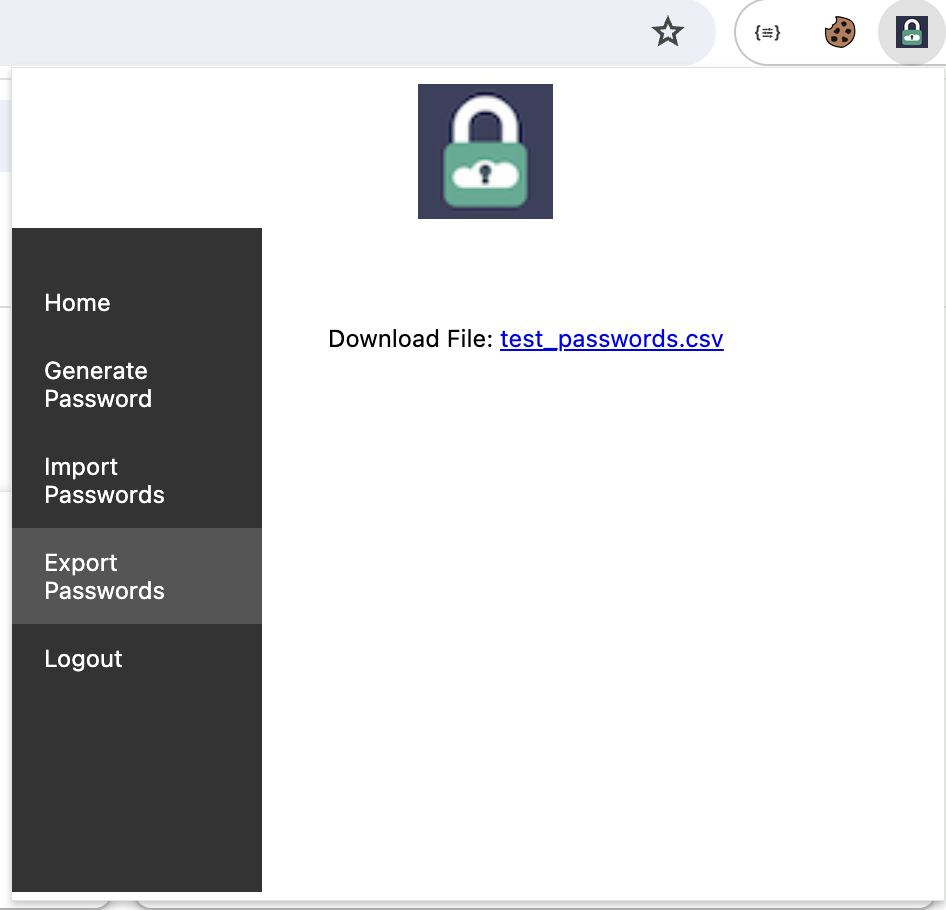
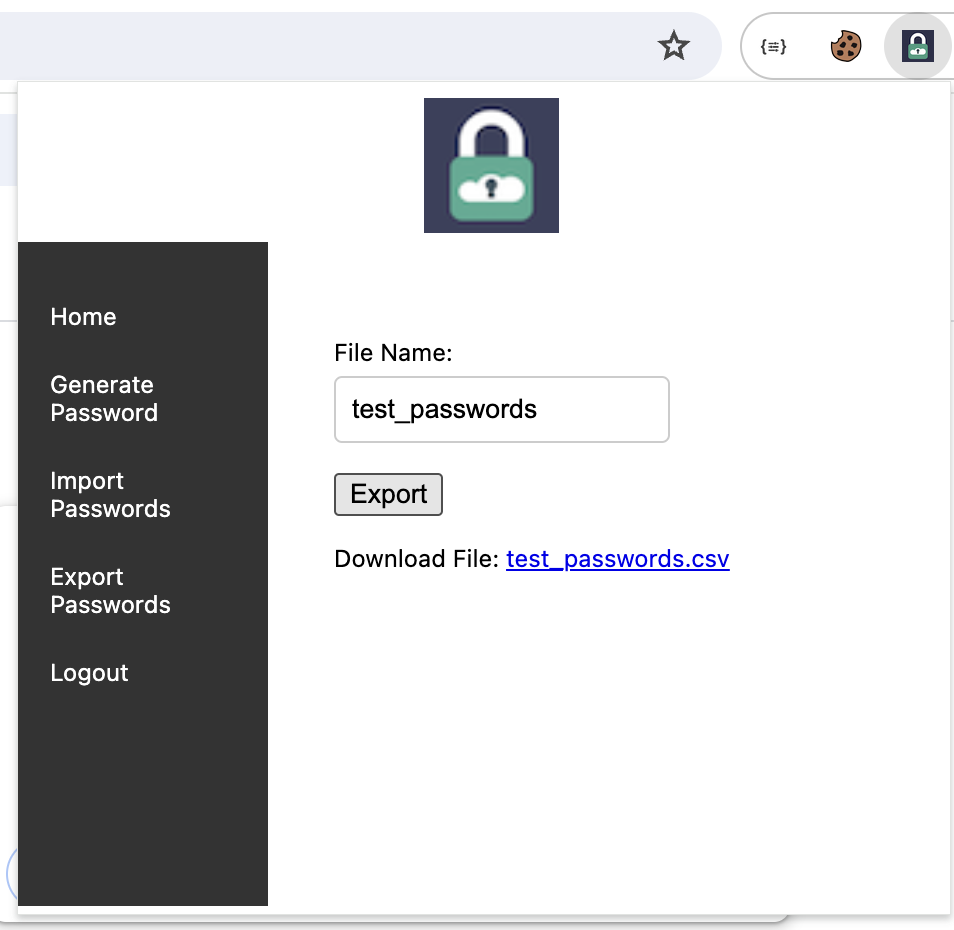
Updated Export Page

diff --git a/utils.js b/utils.js
@@ -170,7 +170,7 @@ export function importPasswords(file) {
 }
 
 
-export async function exportPasswords() {
+export async function exportPasswords(filename) {
     chrome.storage.local.get('username', function(result){
         if (result) {
             getAllPasswords(result.username).then(passwords => {
@@ -179,7 +179,7 @@ export async function exportPasswords() {
                         password.password = decryptedPasswords[index];
                         delete password.id;
                     });
-                    downloadCSV(result.username + "_passwords.csv", ['username', 'siteUsername', 'password', 'website'], passwords);
+                    downloadCSV(filename + ".csv", ['username', 'siteUsername', 'password', 'website'], passwords);
                 });
             });
         }
@@ -197,18 +197,12 @@ function downloadCSV(filename, headers, data) {
 
     // Create a data URI for the CSV content
     var encodedUri = encodeURI('data:text/csv;charset=utf-8,' + csv);
+    var downloadFileLink = document.getElementById("exportedFile");
 
-    // Create a temporary link element to trigger the download
-    var link = document.createElement('a');
-    link.setAttribute('href', encodedUri);
-    link.setAttribute('download', filename);
-
-    var spanElement = document.createElement('span');
-    spanElement.textContent = "Download File: ";
-
-    link.textContent = filename;
-    document.querySelector("#fileSaveMessage").appendChild(spanElement);
-    document.querySelector("#fileSaveMessage").appendChild(link);
+    toggleVisibility(document.getElementById('spanText'));
+    downloadFileLink.setAttribute("href", encodedUri);
+    downloadFileLink.setAttribute('download', filename);
+    downloadFileLink.innerText = filename;
 }
 
 export function copyToClipboard(textToCopy) {
@@ -229,12 +223,10 @@ export function copyToClipboard(textToCopy) {
     document.body.removeChild(tempTextarea);
 }
 
-export function togglePasswordVisibility(passwordInput, showPasswordBtn) {
-    if (passwordInput.type === "password") {
-        passwordInput.type = "text";
-        showPasswordBtn.textContent = "Hide";
+export function toggleVisibility(element) {
+    if (element.style.display == "none") {
+        element.style.display = "block";
     } else {
-        passwordInput.type = "password";
-        showPasswordBtn.textContent = "Show";
+        element.style.display = "none";
     }
 }

diff --git a/export.html b/export.html
@@ -10,7 +10,16 @@
 </body>
     <div id="navbarContainer""></div>
     <div class="page-container"  style="margin-top:50px;">
-        <div id="fileSaveMessage"></div>
+        <form id="exportForm">
+            <div class="form-group">
+                <label for="outputFile">File Name:</label>
+                <input type="text" id="outputFile" style="width: 50%;" required>
+            </div>
+            <button>Export</button>
+            <br>
+        </form>
+        <br>
+        <span id="spanText" style="display: none;">Download File: <a id="exportedFile" href="#"></a></span>
     </div>
     <script type="module" src="export.js"></script>
     <script type="module" src="navbar.js"></script>

diff --git a/export.js b/export.js
@@ -1,5 +1,17 @@
-import { exportPasswords } from "./utils.js";
+import { exportPasswords, toggleVisibility } from "./utils.js";
 
 document.addEventListener("DOMContentLoaded", function() {
-    exportPasswords();
+    const exportForm = document.getElementById("exportForm");
+    const filename = document.getElementById("outputFile");
+    const spanText = document.getElementById("spanText");
+
+    exportForm.addEventListener('submit', function(event) {
+        event.preventDefault();
+
+        if (spanText.style.display != "none") {
+            toggleVisibility(spanText);
+        }
+
+        exportPasswords(filename.value);
+    });
 });

diff --git a/import.html b/import.html
@@ -10,9 +10,11 @@
 </body>
     <div id="navbarContainer""></div>
     <div class="page-container"  style="margin-top:50px;">
+        <span>Password File:</span>
+        <br><br>
         <input type="file" id="fileInput" accept=".csv">
         <div>
-            <h4 id="fileImportSuccessfulMessage"></h4>
+            <h3 id="fileImportSuccessfulMessage"></h3>
         </div>
     </div>
     <script type="module" src="import.js"></script>

diff --git a/login.html b/login.html
@@ -10,7 +10,7 @@
     <!-- <h2 class="plugin-name">Some Name for my password manager</h2> -->
     <img src="icon48.png" width="15%" alt="Icon">
     <div class="login-container">
-        <h2>Password Manager</h2>
+        <h2>Sign In</h2>
         <form id="loginForm">
             <div class="form-group">
                 <label for="username">Username or Email:</label>

diff --git a/generate-password.html b/generate-password.html
@@ -8,7 +8,7 @@
 </head>
 <body>
     <div id="navbarContainer""></div>
-    <div class="page-container"  style="margin-top:50px;">
+    <div class="page-container"  style="margin-top:10px;">
         <h2>Password Generator</h2>
         <form id="generatePasswordForm">
             <label for="passwordLength">Password Length:</label>
